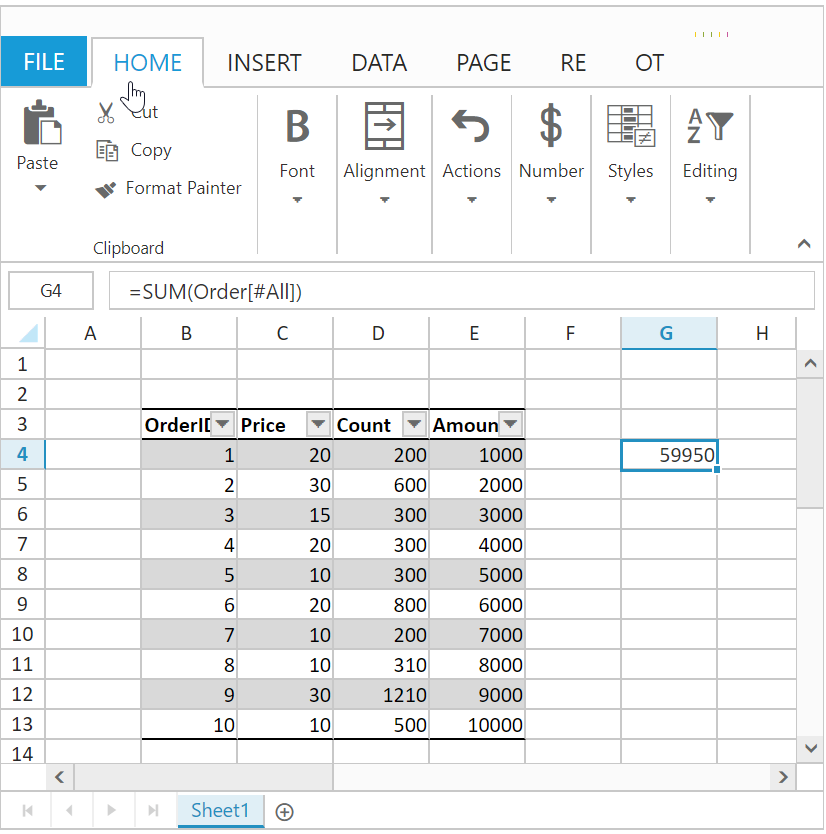
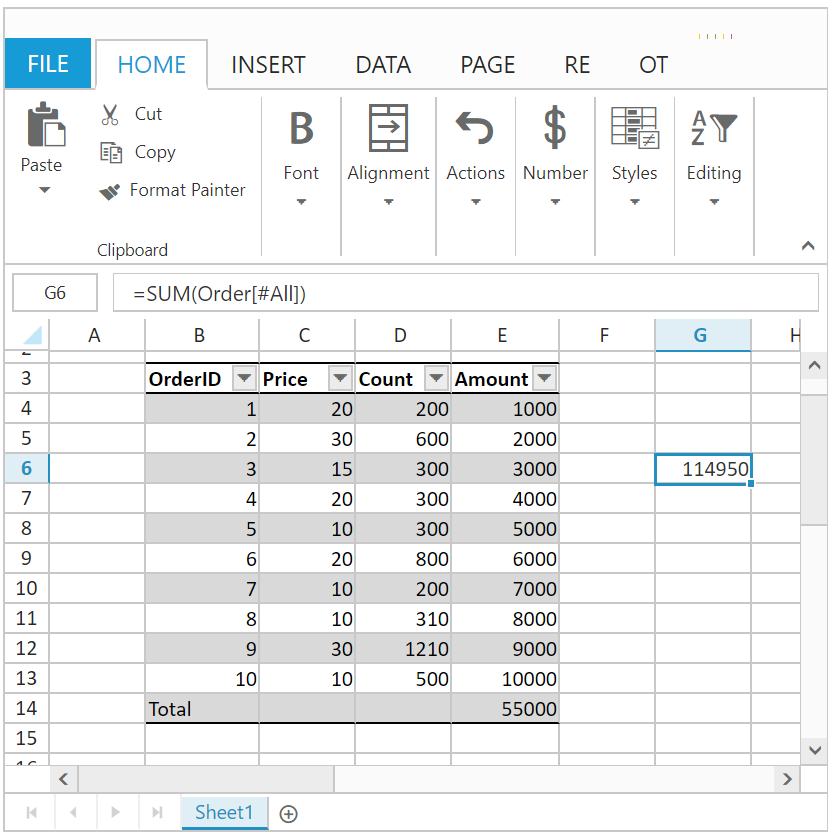
JS-57828 - array formula modified ug

Changed region(s): [[0.0, 0.0, 0.9988, 0.9976], [0.1211, 0.9664, 0.1513, 0.9976]]

diff --git a/js/Spreadsheet/Formulas.md b/js/Spreadsheet/Formulas.md
@@ -425,10 +425,16 @@ Please find the Column Specifier output screen below,
 
 * [#All] and [#Data] are special item specifiers, that refers to the exact portion of the table.
 
-* The formula should be “=SUM(Order[#All])”, here All is the Item Specifier.
+* To differentiate the [#All] and [#Data], you can enable the Total Row of the table.
+
+* The formula should be “=SUM(Order[#All])”, here All is the Item Specifier. In this formula calculates the sum of the entire table including Total row.
 
 Please find the Item Specifier output screen below,
 ![](Formulas_images/Formula_img8.png)
 
+* The formula should be “=SUM(Order[#Data])”, here Data is the Item Specifier. In this formula calculates only the data of the table.
+
+Please find the Item Specifier output screen below,
+![](Formulas_images/Formula_img9.png)
 
 
